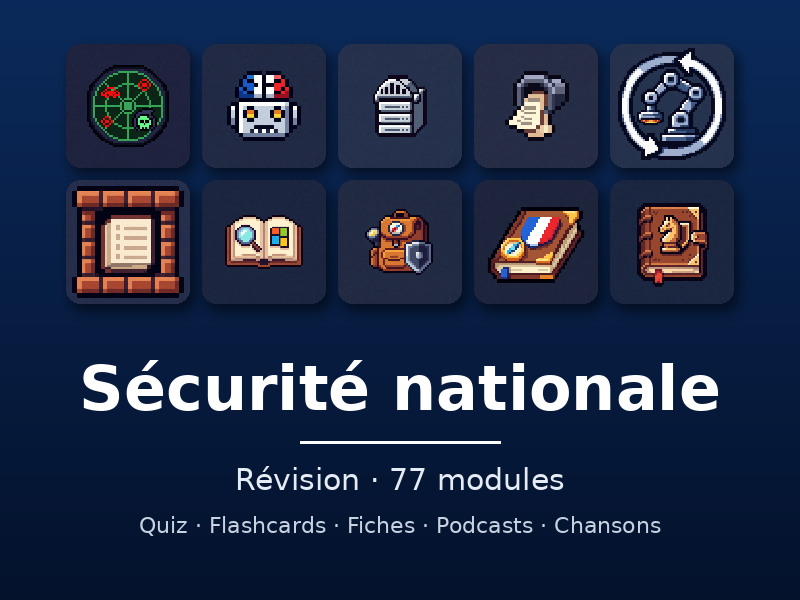
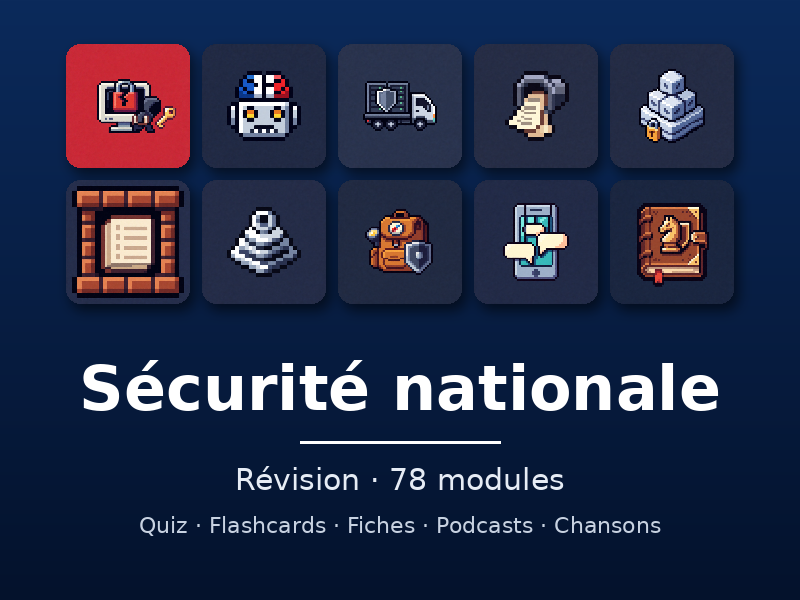
Inventaire des médias et vignette du jeu mis à jour

diff --git a/INVENTAIRE.md b/INVENTAIRE.md
@@ -1,6 +1,6 @@
 # Inventaire des modules et des médias — pse-securite-nationale
 
-Généré le 30/09/2026 à 00:21 par `scripts/inventaire_medias.py` (78 modules). ✅ présent, ❌ absent ; pour QCM, flashcards et TP, nombre d'éléments (0 = absent).
+Généré le 30/09/2026 à 07:21 par `scripts/inventaire_medias.py` (78 modules). ✅ présent, ❌ absent ; pour QCM, flashcards et TP, nombre d'éléments (0 = absent).
 
 ## Synthèse
 
